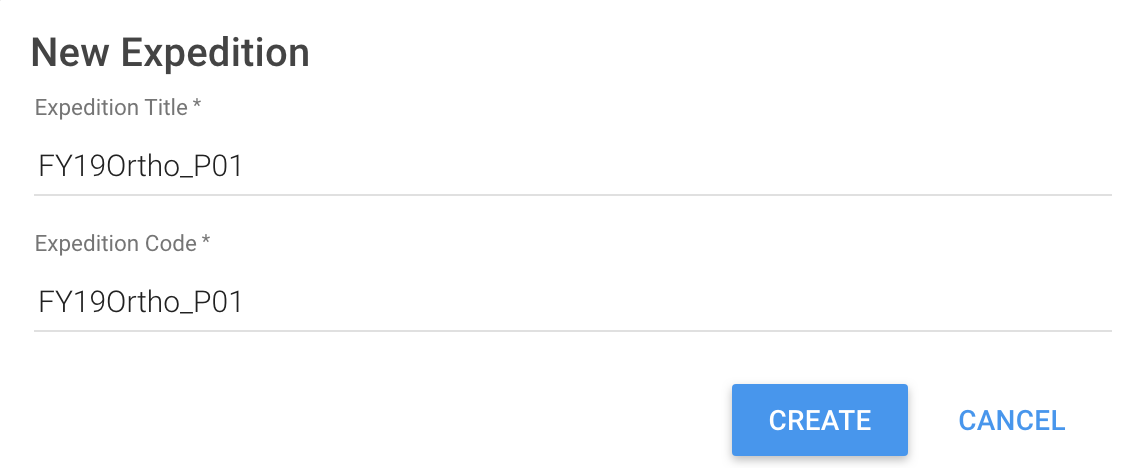
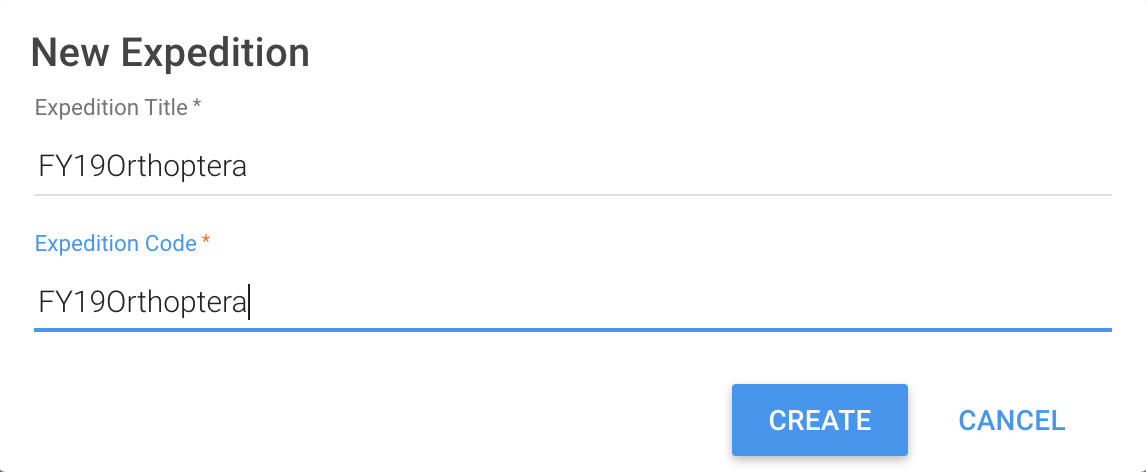
Updated naming conventions
I updated the naming conventions to reflect expedition names = project names, not plate names

diff --git a/Docs/conventions.rst b/Docs/conventions.rst
@@ -6,28 +6,31 @@ Naming conventions
 FIMS naming conventions
 -----------------------
 
-Once tissues are available to be processed in the lab, they are divided into a batch, or batches, of tissues that will be processed together through the full laboratory pipeline (extraction through to sequencing). Each batch is also known as a "plate" or "expedition", terms that will be used repeatedly throughout our instructions for the FIMS and LIMS. Specimen spreadsheets must be completed for each plate of tissues prior to their processing in the lab. 
+Once tissues are available to be processed in the lab, they are divided into a batch, or batches, of tissues that will be processed together through the full laboratory pipeline (extraction through to sequencing). Each batch is also known as a “plate” and is saved as an “expedition” in the GeOMe FIMS database. These terms will be used repeatedly throughout our instructions for the FIMS and LIMS. Specimen spreadsheets must be completed for each plate of tissues prior to their processing in the lab. 
 
-The SI Barcode Network creates the plate/expedition name from [Fiscal Year][Project Abbreviation]_P[Sequential Number]
-	Example: FY19Ortho_P01 for the first plate/batch from the Orthopterans project from Fiscal Year 2019
+The SI Barcode Network creates the expedition name from [Fiscal Year][Project Abbreviation]
+	Example: FY19Orthoptera for the Orthopterans project from Fiscal Year 2019
 
 This name will then be used for the:
 
-* Spreadsheet filename (FY19Ortho_P01.xlsx)
+* Expedition Title
 
-* Expedition Code in FIMS
+* Expedition Code
 
 .. image:: /images/dataset_code.png
 	:align: center
 	:scale: 50 %
 
-* tissuePlate field in spreadsheet
+The SI Barcode Network creates the plate name from [Expedition Name]P[Sequential Number]
+	Example: FY19Orthoptera_P01 for the first plate/batch from the Orthopterans project from Fiscal Year 2019
+
+This name corresponds to the plate name in the lab and will be used for the tissuePlate field in the FIMS spreadsheet: 
 
 .. image:: /images/plateid.png
 	:align: center
 	:scale: 50 %
 	
-* and will also be incorporated in the plate names in the LIMS system (see below)
+This name will also be used in the LIMS system (see below)
 
 .. _lims_conventions-link:
 
@@ -35,23 +38,23 @@ LIMS naming conventions
 -----------------------
 
 Extraction Plate:
-	*[expedition code]_X[extraction attempt number]*
+	*[plate name]_X[extraction attempt number]*
 
-	Example: FY19Ortho_P01_X01 for the first extraction plate from the plate/batch of samples in the expedition named “FY19Ortho_P01”. If you were to re-extract DNA from all of the samples in FY19Ortho_P01, then this second extraction plate would be called FY19Ortho_P01_X02.
+	Example: FY19Orthoptera_P01_X01 for the first extraction plate from the plate/batch of samples in the expedition named “FY19Orthoptera_P01”. If you were to re-extract DNA from all of the samples in FY19Orthoptera_P01, then this second extraction plate would be called FY19Orthoptera_P01_X02.
 
 Working Stock of Extraction Plate:
-	*[expedition code]_X[extraction attempt number][working stock number]*
+	*[plate name]_X[extraction attempt number][working stock number]*
 
-	Example: FY19Ortho_P01_X01_W01 for the first working stock plate created from the FY19Ortho_P01_X01 extraction plate. If you were to create a second working stock from this same extraction plate, you would name it FY19Ortho_P01_X01_W02.
+	Example: FY19Orthoptera_P01_X01_W01 for the first working stock plate created from the FY19Orthoptera_P01_X01 extraction plate. If you were to create a second working stock from this same extraction plate, you would name it FY19Orthoptera_P01_X01_W02.
 
 PCR Plate:
-	*[expedition code]_PCR[PCR attempt number]_[fwd primer]_[rev primer]*
+	*[plate name]_PCR[PCR attempt number]_[fwd primer]_[rev primer]*
 
-	Example: FY19Ortho_P01_PCR01_dgLCO_dgHCO for a PCR reaction of the FY19Ortho_P01 plate using primers dgLCO1490 and dgHCO2198. Subsequent PCRs should be named in chronological order regardless of the primer set used. For example if a second PCR was completed for this plate it would be named FY19Ortho_P01_PCR02_Fprimername_Rprimername.
+	Example: FY19Orthoptera_P01_PCR01_dgLCO_dgHCO for a PCR reaction of the FY19Orthoptera_P01 plate using primers dgLCO1490 and dgHCO2198. Subsequent PCRs should be named in chronological order regardless of the primer set used. For example if a second PCR was completed for this plate it would be named FY19Orthoptera_P01_PCR02_Fprimername_Rprimername.
 
 
 Cycle Sequencing Plate:
-	*[expedition code]_Seq[Sequencing attempt number]_[primer used]_[F or R]*
+	*[plate name]_Seq[Sequencing attempt number]_[primer used]_[F or R]*
 
-	Examples: FY19Ortho_P01_Seq01_dgLCO_F for the cycle sequencing plate for the forward strand using the dgLC01490 primer; and FY19Ortho_P01_Seq01_dgHCO_R for the reverse strand using the dgHCO2198 primer. 
+	Examples: FY19Orthoptera_P01_Seq01_dgLCO_F for the cycle sequencing plate for the forward strand using the dgLC01490 primer; and FY19Orthoptera_P01_Seq01_dgHCO_R for the reverse strand using the dgHCO2198 primer. 
 	
